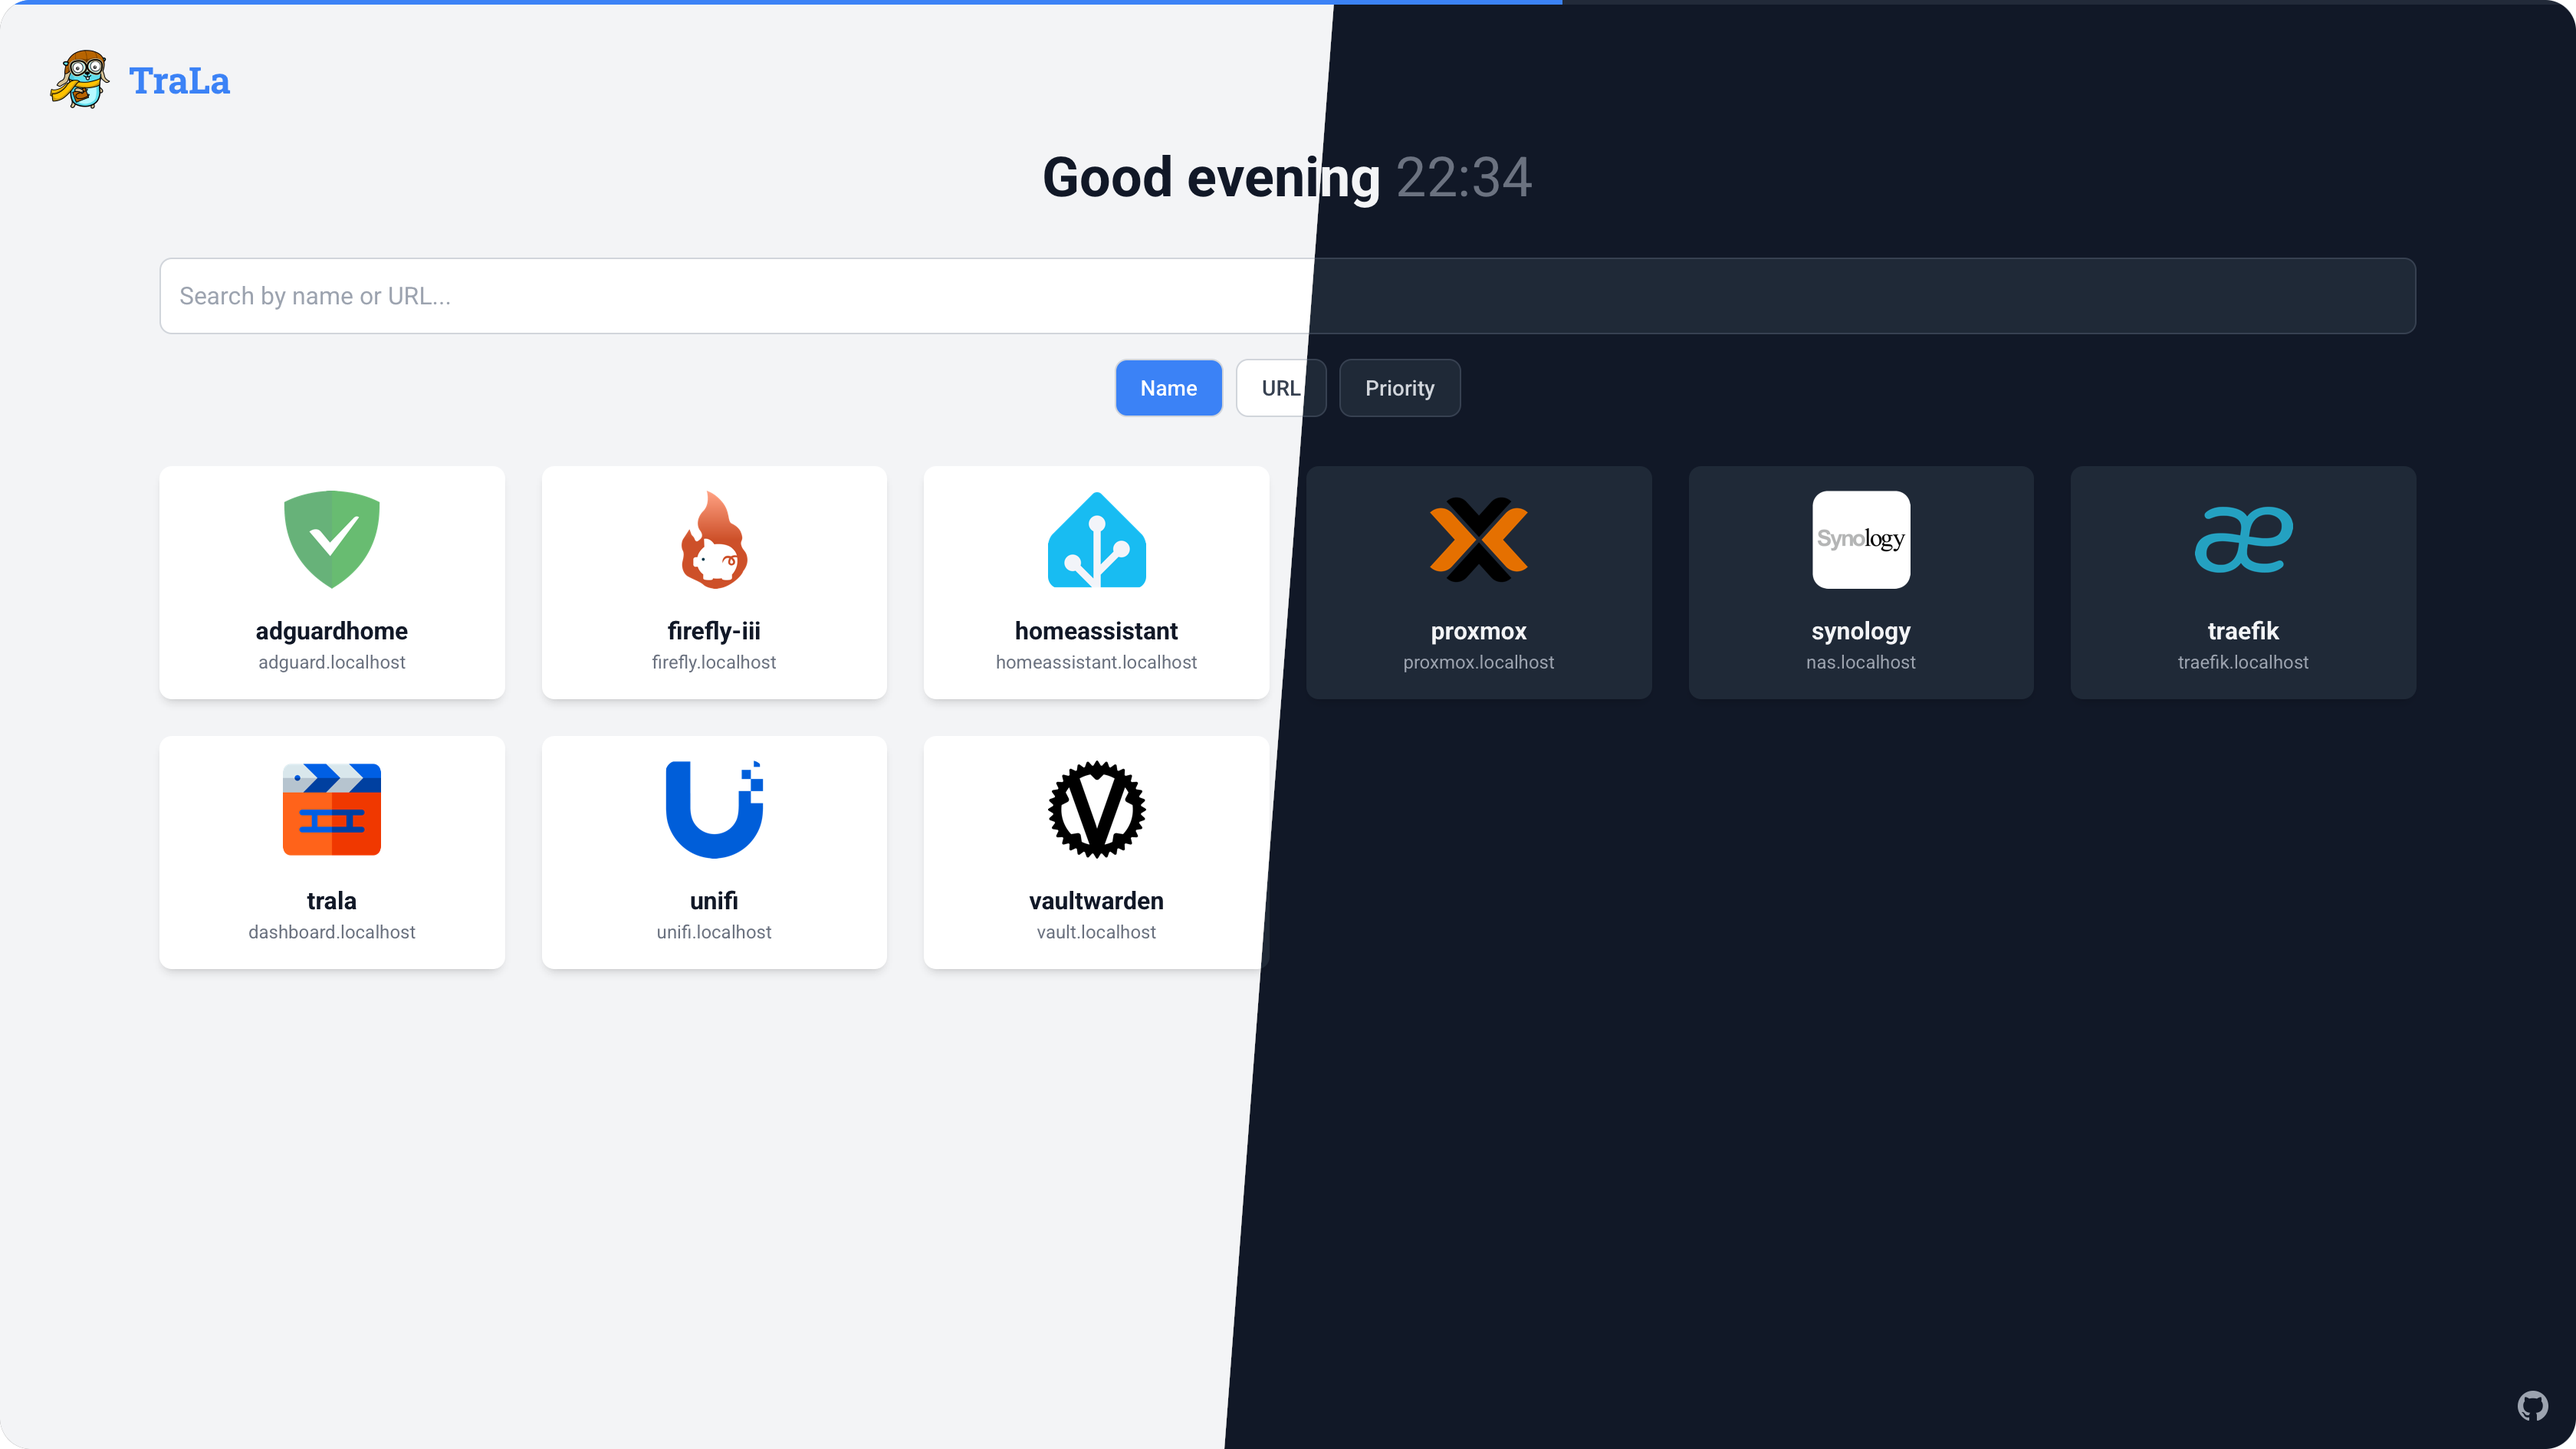
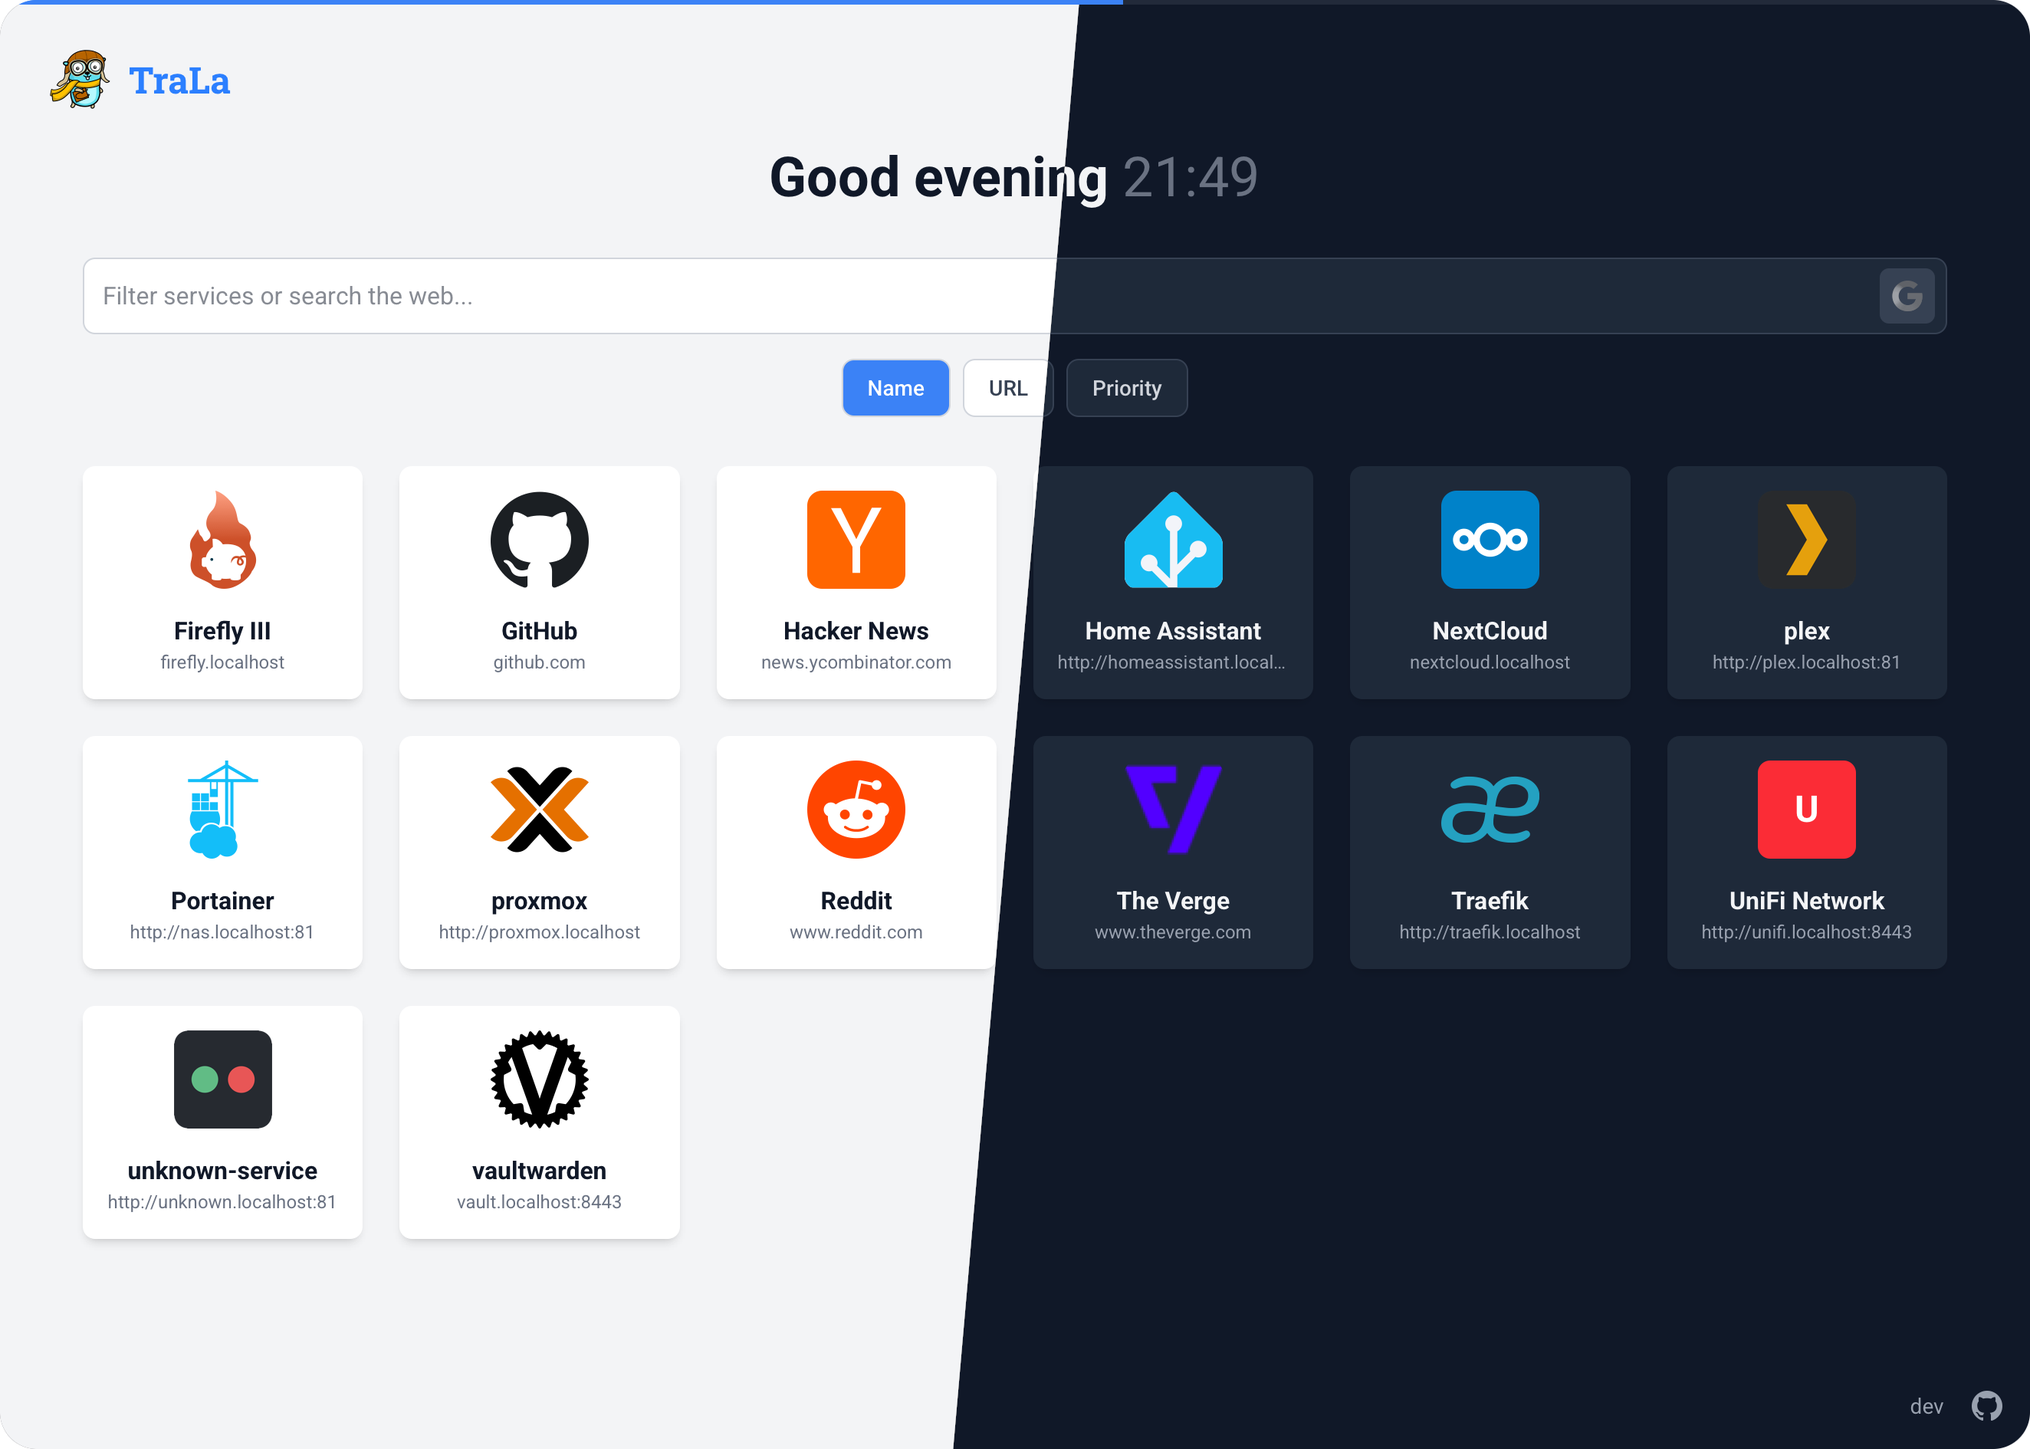
fix: Use name from config. Updated screenshot

diff --git a/index.html b/index.html
@@ -148,10 +148,10 @@
                 card.rel = 'noopener noreferrer';
                 card.className = 'block p-4 rounded-lg bg-white dark:bg-gray-800 shadow-md hover:shadow-lg hover:-translate-y-1 transition-all duration-300';
                 
-                const firstLetter = service.routerName.charAt(0).toUpperCase();
-                const bgColor = getColorFromString(service.routerName);
+                const firstLetter = service.Name.charAt(0).toUpperCase();
+                const bgColor = getColorFromString(service.Name);
                 
-                card.innerHTML = `<div class="flex flex-col items-center text-center"><div class="w-16 h-16 mb-4 flex items-center justify-center rounded-lg overflow-hidden"><img class="w-full h-full object-contain icon-img" src="${service.icon}" alt="Icon for ${service.routerName}" style="display: block;" /><div class="fallback-icon w-full h-full ${bgColor}" style="display: none;">${firstLetter}</div></div><p class="font-semibold truncate w-full" title="${service.routerName}">${service.routerName}</p><p class="text-xs text-gray-500 dark:text-gray-400 truncate w-full" title="${service.url}">${service.url.replace('https://', '')}</p></div>`;
+                card.innerHTML = `<div class="flex flex-col items-center text-center"><div class="w-16 h-16 mb-4 flex items-center justify-center rounded-lg overflow-hidden"><img class="w-full h-full object-contain icon-img" src="${service.icon}" alt="Icon for ${service.Name}" style="display: block;" /><div class="fallback-icon w-full h-full ${bgColor}" style="display: none;">${firstLetter}</div></div><p class="font-semibold truncate w-full" title="${service.Name}">${service.Name}</p><p class="text-xs text-gray-500 dark:text-gray-400 truncate w-full" title="${service.url}">${service.url.replace('https://', '')}</p></div>`;
                 
                 serviceGrid.appendChild(card);
 
@@ -172,12 +172,12 @@
 
         const applyFiltersAndSort = () => {
             const searchTerm = searchInput.value.toLowerCase();
-            let filteredServices = allServices.filter(service => service.routerName.toLowerCase().includes(searchTerm) || service.url.toLowerCase().includes(searchTerm));
+            let filteredServices = allServices.filter(service => service.Name.toLowerCase().includes(searchTerm) || service.url.toLowerCase().includes(searchTerm));
             
             let sortedServices = [...filteredServices];
             switch (currentSort) {
                 case 'name': 
-                    sortedServices.sort((a, b) => a.routerName.localeCompare(b.routerName)); 
+                    sortedServices.sort((a, b) => a.Name.localeCompare(b.Name)); 
                     break;
                 case 'url': 
                     sortedServices.sort((a, b) => a.url.localeCompare(b.url)); 

diff --git a/server/main.go b/server/main.go
@@ -51,11 +51,10 @@ type TraefikEntryPoint struct {
 
 // Service represents the final, processed data sent to the frontend.
 type Service struct {
-	RouterName  string `json:"routerName"`
-	DisplayName string `json:"displayName"`
-	URL         string `json:"url"`
-	Priority    int    `json:"priority"`
-	Icon        string `json:"icon"`
+	Name     string `json:"Name"`
+	URL      string `json:"url"`
+	Priority int    `json:"priority"`
+	Icon     string `json:"icon"`
 }
 
 // VersionInfo represents the application version information
@@ -422,11 +421,10 @@ func processRouter(router TraefikRouter, entryPoints map[string]TraefikEntryPoin
 	iconURL := findBestIconURL(displayName, serviceURL)
 
 	ch <- Service{
-		RouterName:  routerName,
-		DisplayName: displayName,
-		URL:         serviceURL,
-		Priority:    router.Priority,
-		Icon:        iconURL,
+		Name:     displayName,
+		URL:      serviceURL,
+		Priority: router.Priority,
+		Icon:     iconURL,
 	}
 }
 
@@ -909,11 +907,10 @@ func getManualServices() []Service {
 		}
 
 		service := Service{
-			RouterName:  manualService.Name,
-			DisplayName: manualService.Name,
-			URL:         manualService.URL,
-			Priority:    priority,
-			Icon:        iconURL,
+			Name:     manualService.Name,
+			URL:      manualService.URL,
+			Priority: priority,
+			Icon:     iconURL,
 		}
 
 		manualServices = append(manualServices, service)
